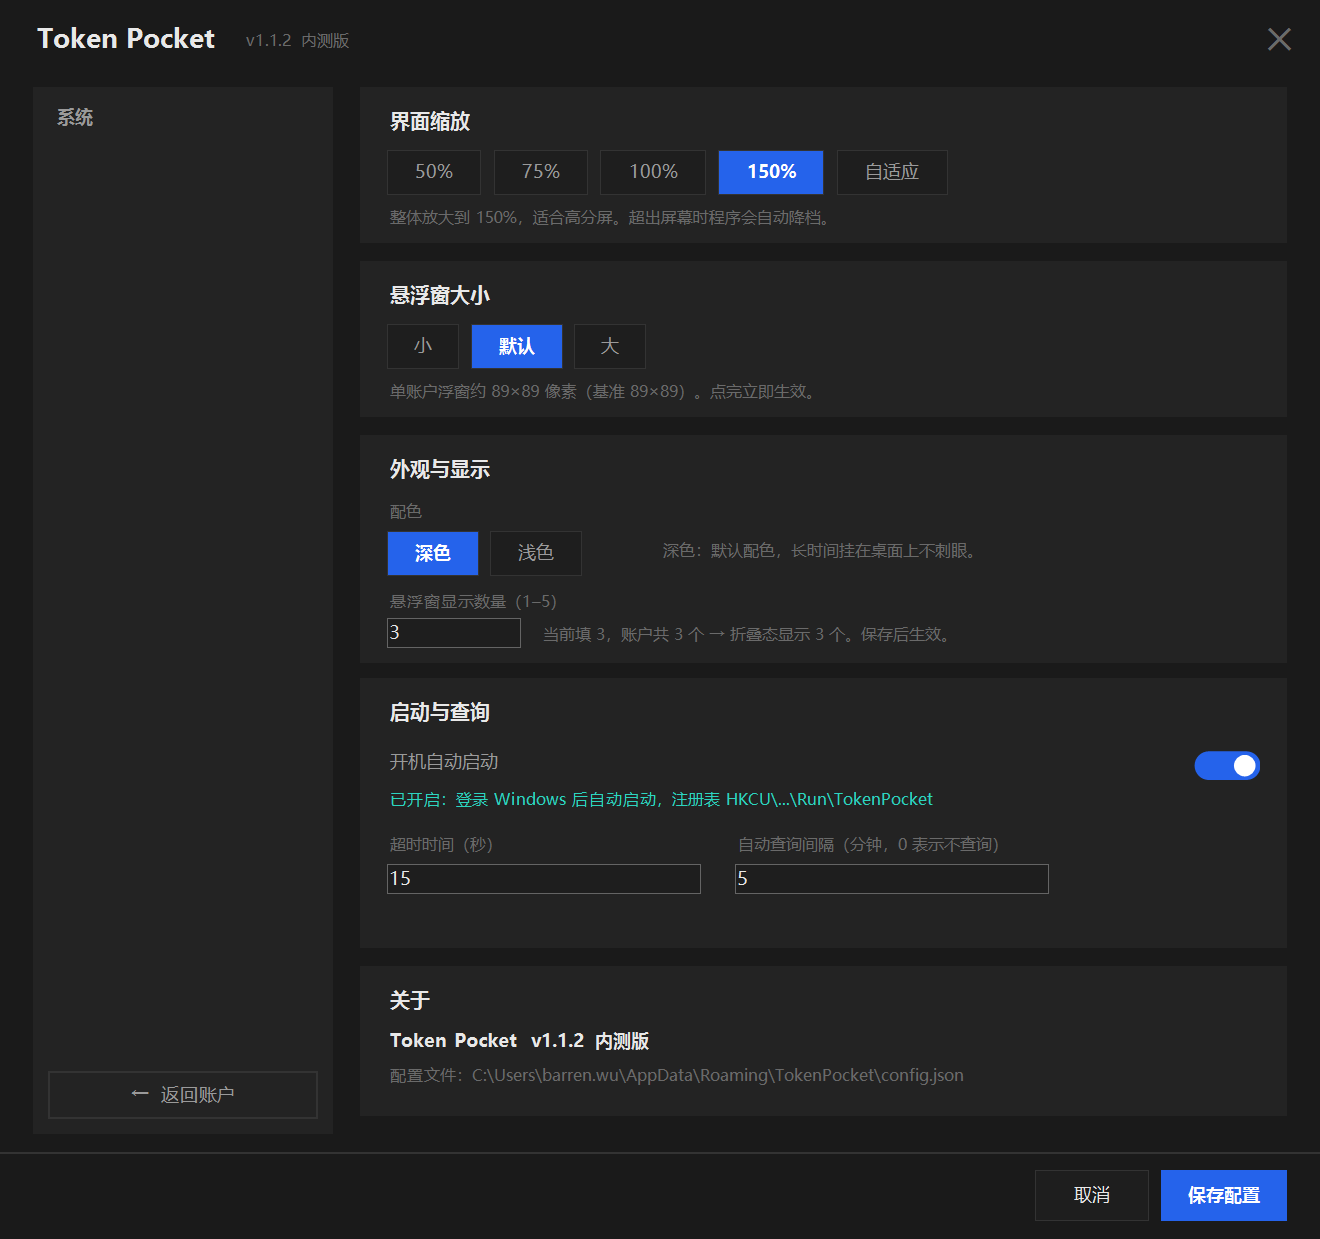
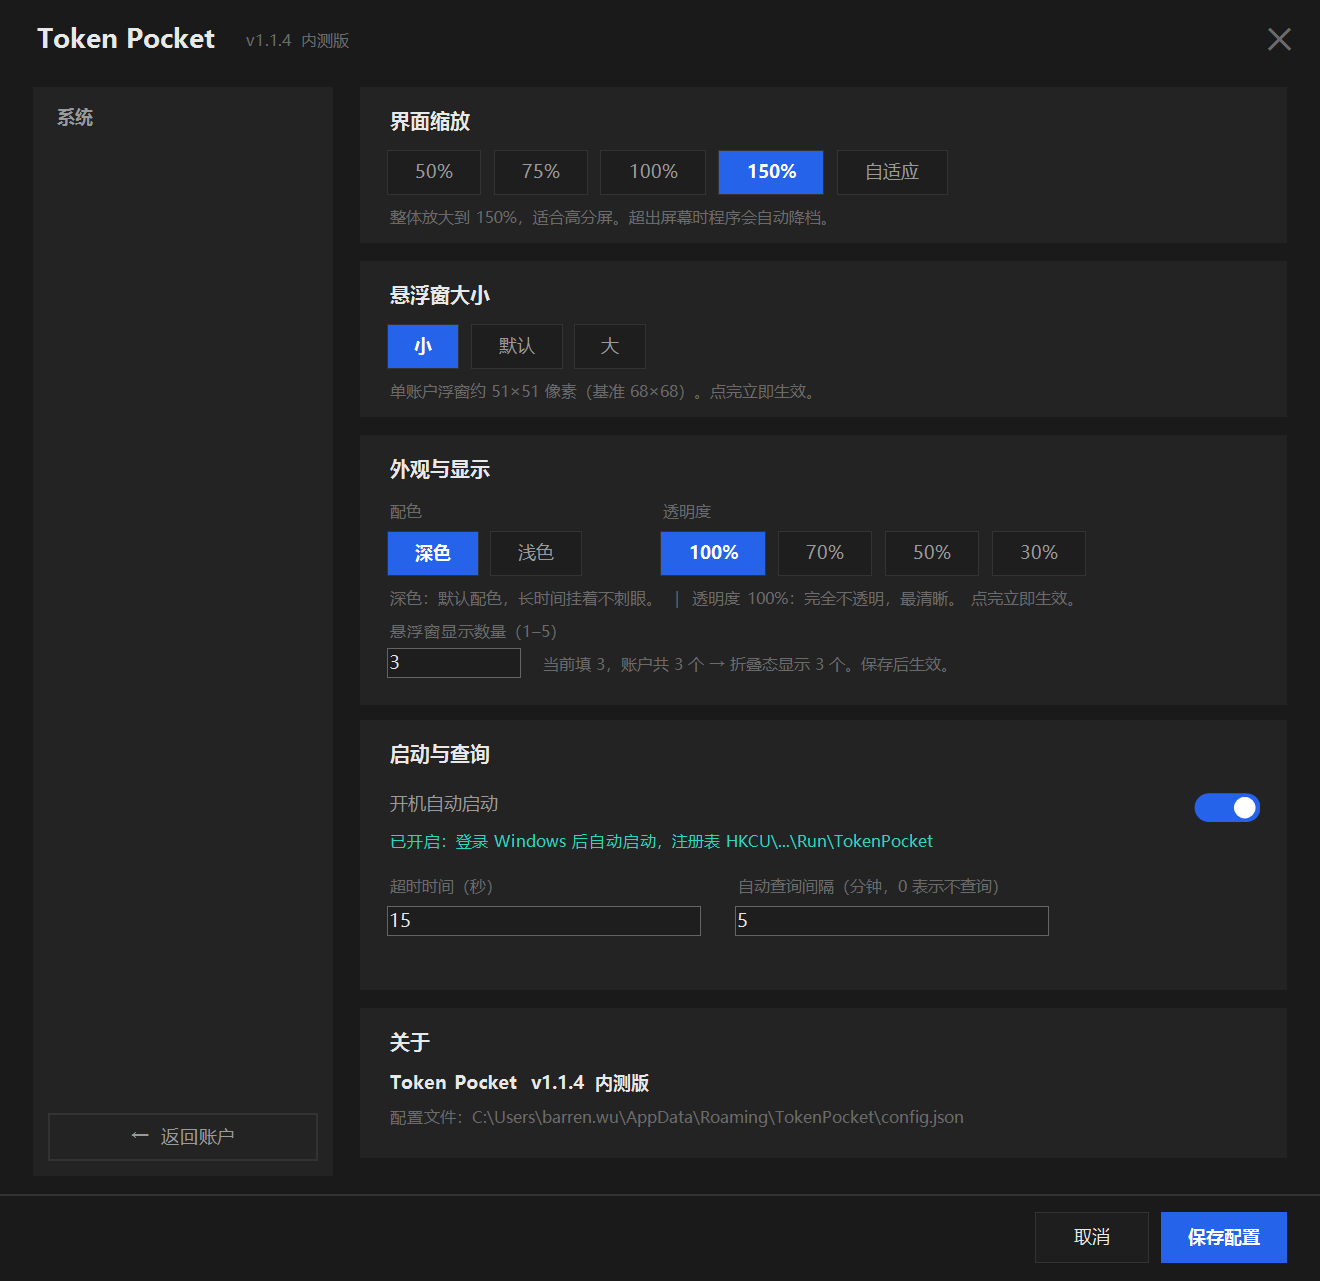
feat: 启动不再闪黑窗 + 单实例保护 + 清理冗余截图 (v1.1.5)
一、启动闪黑窗（用户反馈「闪好几个黑色窗口」）
根因：start "title" powershell.exe ... -WindowStyle Hidden
  start 先给 powershell 创建一个【可见】的控制台窗口，
  PowerShell 启动后才执行 -WindowStyle Hidden 把它藏起来，
  中间那一下就是看到的黑窗闪。双击两次或自启实例已在跑时，闪的次数翻倍。

解法：
- 新增 TokenPocket.vbs：WScript.Shell.Run(cmd, 0, False)，
  窗口模式 0 = 从创建起就隐藏，不存在「先显示再隐藏」阶段
- 新增 Token Pocket.lnk：指向 wscript + vbs。wscript 是 GUI 子系统程序，
  双击不创建控制台 → 全程零窗口，作为推荐入口
- start-token-pocket.cmd 改为转调 VBS（cmd 自身控制台仍闪约 50ms，故降级为兼容入口）
- Get-AutostartCommand 改用 VBS，开机启动也不再闪

验证（verify-launch.ps1，不靠肉眼）：
  枚举进程所有顶层窗口，统计 class=ConsoleWindowClass 且 IsWindowVisible 的数量
  .lnk  → total=9 visibleConsole=0
  .cmd  → total=9 visibleConsole=0
  控制台窗口确实被创建，但 visible=False —— 从不显示

二、单实例保护
启动时抢 Mutex 'TokenPocket_SingleInstance'，抢不到写日志退出。
所有 -Xxx 验证开关经 $script:IsTestMode 跳过，否则测试会被运行中的实例挡住。
实测第二个实例 259ms 退出（正常启动需 2~3 秒建窗体）。

三、清理与测试修复
- 删除 7 张冗余截图（shot-cfg-light / shot-dock-dark / shot-panel-dark /
  shot-panel-light / shot-panel-v / fin-cfg-account / fin-cfg-system）
- 重新生成 shot-config.png（曾被覆盖成系统页）与 shot-cfg-system.png
- 修 -TestUI 两处断言：
  1) 「保存后 dockScale 与打开时一致」在账户页点系统页的 chip，PerformClick
     因 CanSelect 为假而不触发，静默失效。把 Show-Page 'system' 提到点击之前
  2) 同上原因导致的透明度断言失败已在前一版修正

验证基线（全绿，且配置测试前后完全一致）
  test-templates 55/55 ｜ test-shape 6/6 ｜ SelfTest 填充率 9/9 + 颜色 10/10
  GeomTest 31/31 ｜ TestUI 24/24 ｜ TestAutostart 通过
  测试前后配置：opacity=1 dockScale=0.75 uiScale=150 timeout=15（未被污染）

diff --git a/HANDOFF.md b/HANDOFF.md
@@ -1,7 +1,7 @@
 # Token Pocket — 项目交接文档
 
 > 面向接手本项目的 Agent。读完这份文档，你应该能直接改代码、验证、交付，不需要重新摸索。
-> 最后更新：2026-10-30 12:20 ｜ 版本 v1.1.4 内测版 ｜ 文档作者：上一手 Agent
+> 最后更新：2026-10-30 12:40 ｜ 版本 v1.1.5 内测版 ｜ 文档作者：上一手 Agent
 
 ---
 
@@ -60,12 +60,27 @@ powershell -NoProfile -ExecutionPolicy Bypass -File .\TokenPanel.ps1 -TestUI    
 ### 2.1 启动方式
 
 ```
-start-token-pocket.cmd        ← 正式入口，双击即可（-WindowStyle Hidden，无控制台）
+Token Pocket.lnk              ← 推荐入口，双击零闪（wscript + VBS，全程无控制台）
+TokenPocket.vbs               ← 无窗口启动器本体；也可直接双击，同样零闪
+start-token-pocket.cmd        ← 兼容入口，内部转调 VBS；cmd 自己的控制台会闪一下（约 50ms）
 start-token-panel.cmd         ← 旧名转发 stub，保留是为了不让已有快捷方式失效
-debug-token-panel.cmd         ← 保留控制台，启动失败时看报错
+debug-token-pocket.cmd        ← 保留控制台，启动失败时看报错
 ```
 
-**注意**：用 Agent 的后台任务启动，任务结束时进程会被回收，看起来像崩溃。这不是 bug。要常驻必须让用户双击 .cmd（独立进程）。
+**为什么不用 `start "" powershell.exe -WindowStyle Hidden`**（旧写法，已废弃）：
+`start` 会先给 powershell 开一个**可见**的控制台窗口，PowerShell 启动后才执行
+`-WindowStyle Hidden` 把它藏起来——中间那一下就是用户看到的黑窗闪。
+VBS 的 `Run cmd, 0, False` 是**从创建起就隐藏**，不存在可见阶段。
+
+**单实例保护**：`TokenPanel.ps1` 启动时抢命名 Mutex `TokenPocket_SingleInstance`，
+抢不到就写日志退出。所有 `-Xxx` 验证开关会跳过该检查（否则测试会被运行中的实例挡住）。
+这条同时解决了「双击两次 → 两个悬浮窗 + 闪两轮」的问题。
+
+**注意**：用 Agent 的后台任务启动，任务结束时进程会被回收，看起来像崩溃。这不是 bug。
+要常驻必须让用户双击（独立进程）。
+
+**移动文件夹后**：`.lnk` 里的路径是绝对路径，会失效；跑 `make-shortcut.ps1` 重新生成即可
+（`.vbs` 自己按脚本所在目录解析路径，是便携的）。
 
 ### 2.2 全部调试开关
 
@@ -918,8 +933,9 @@ PowerShell 函数查变量是动态作用域——找「调用方」的局部变
 | **v1.1.2** | 10-29 19:20 | 折叠态圆环改为显示 5 小时额度（不再取两窗口最大值）；双击刷新动效（旋转光弧 + 数字跳动 + 1 秒后拉新数据）；`-TestUI` 不再把 dockScale/uiScale/theme 写进用户配置；新增 `-Shot -Anim` |
 | **v1.1.3** | 10-30 11:30 | 折叠态单元 89→**68**、数字字号 14→16、小档隐藏账户名；贴边保持四角圆角（删掉置零逻辑）；纵排加「离任务栏 ≥150 **物理**像素」门槛；新增透明度 100/70/50/30 |
 | **v1.1.4** | 10-30 12:20 | 排版精修（方案 B）：笔宽 4→**2**（用量环与余额环统一）、数字 16 Bold→**15 SemiBold**、% 比例 0.62→**0.75**、% 间距 −2→**0**、账户名 9→**8**、**数字垂直居中修正**（0.075×字号）；排版参数全部抽成常量 |
+| **v1.1.5** | 10-30 12:40 | 启动不再闪黑窗：新增 `TokenPocket.vbs` 无窗口启动器 + `Token Pocket.lnk` 零闪快捷方式；新增**单实例保护**（Mutex）；自启命令改走 VBS；清理 7 张冗余截图 |
 
-**版本号规则**：以后每次改动递增，只改 `lib/QuotaCore.ps1` 顶部的 `$script:AppVersion` 一行。当前 `1.1.4`。
+**版本号规则**：以后每次改动递增，只改 `lib/QuotaCore.ps1` 顶部的 `$script:AppVersion` 一行。当前 `1.1.5`。
 
 ---
 
@@ -1356,3 +1372,70 @@ measure-center  四档残留 ≤0.32px 全部居中
 ```
 
 三档实测（150% DPI，3 账户横排）：小 230×76 / 默认 306×102 / 大 382×128 物理像素。
+
+---
+
+## 19. 启动不闪黑窗（v1.1.5）
+
+### 19.1 根因
+
+旧启动方式：`start "Token Pocket" powershell.exe ... -WindowStyle Hidden`
+
+`start` 会先给 powershell **创建一个可见的控制台窗口**，PowerShell 启动之后才执行
+`-WindowStyle Hidden` 把它藏起来。中间那一下就是用户看到的黑窗闪。
+
+而且如果双击两次、或自启实例已在跑，闪的次数会翻倍——用户反馈的「闪好几个」就是这么来的。
+
+### 19.2 解法
+
+**`TokenPocket.vbs`**：`WScript.Shell.Run cmdLine, 0, False`
+第二个参数 0 = 窗口模式隐藏，**从创建起就隐藏**，不存在「先显示再隐藏」的阶段。
+
+**`Token Pocket.lnk`**：指向 `wscript` + `//nologo <vbs>`。
+wscript 是 GUI 子系统程序，双击不创建控制台 → 全程零窗口。
+
+**`start-token-pocket.cmd`**：改为转调 VBS。cmd 自己的控制台仍会闪一下（约 50ms），
+所以推荐入口换成了 `.lnk`。
+
+**自启命令**同步改为 `wscript` + vbs 路径（`Get-AutostartCommand`），开机启动也不再闪。
+
+### 19.3 验证方法（不靠肉眼）
+
+`verify-launch.ps1`：启动后枚举该进程所有顶层窗口，统计
+`class = ConsoleWindowClass 且 IsWindowVisible = true` 的个数，期望 0。
+
+实测结果：
+
+```
+=== 通过 Token Pocket.lnk 启动 ===
+  total=9 visibleConsole=0   → 控制台窗口存在但不可见
+=== 通过 start-token-pocket.cmd 启动 ===
+  total=9 visibleConsole=0
+```
+
+注意 `ConsoleWindowClass visible=False` 这一行：控制台**确实被创建了**，但从未可见。
+这正是「不闪」的准确含义——不是没有控制台，而是它从不显示。
+
+### 19.4 单实例保护
+
+`TokenPanel.ps1` 启动时抢 `Mutex 'TokenPocket_SingleInstance'`（`[System.Threading.Mutex]::new`），
+抢不到就写日志退出。所有 `-Xxx` 验证开关通过 `$script:IsTestMode` 跳过此检查，
+否则测试会被正在运行的实例挡住。
+
+实测：第二个实例 **259ms** 退出（正常启动要 2~3 秒建窗体），日志记
+「已有实例在运行，本次启动直接退出（单实例保护）」。
+
+### 19.5 排查中发现的两个问题
+
+1. **一个残留实例把用户配置覆盖了** —— 排查时发现有个开机自启的旧实例（用改前的命令启动）
+   一直在跑，它内存里的 `opacity=0.5` 在 12:25 保存时把文件覆盖回了 0.5，
+   导致 12:22 手动还原的 1.0 白做。
+   **教训：改配置前先确认没有实例在跑，否则会被 stale 内存覆盖。** 这类问题极难从日志看出来。
+2. **`shot-config.png` 曾被覆盖成系统页截图** —— 两张图字节数完全相同才发现。
+   重新生成后两者尺寸不同（账户页 1290 高、系统页 1281 高）。
+   **教训：截图生成后要核对尺寸差异，别只看文件名。**
+
+### 19.6 移动文件夹后
+
+`.lnk` 里是绝对路径，移动后失效；跑 `make-shortcut.ps1` 重新生成。
+`.vbs` 按自身所在目录解析路径，是便携的（可以直接双击 `.vbs`）。
